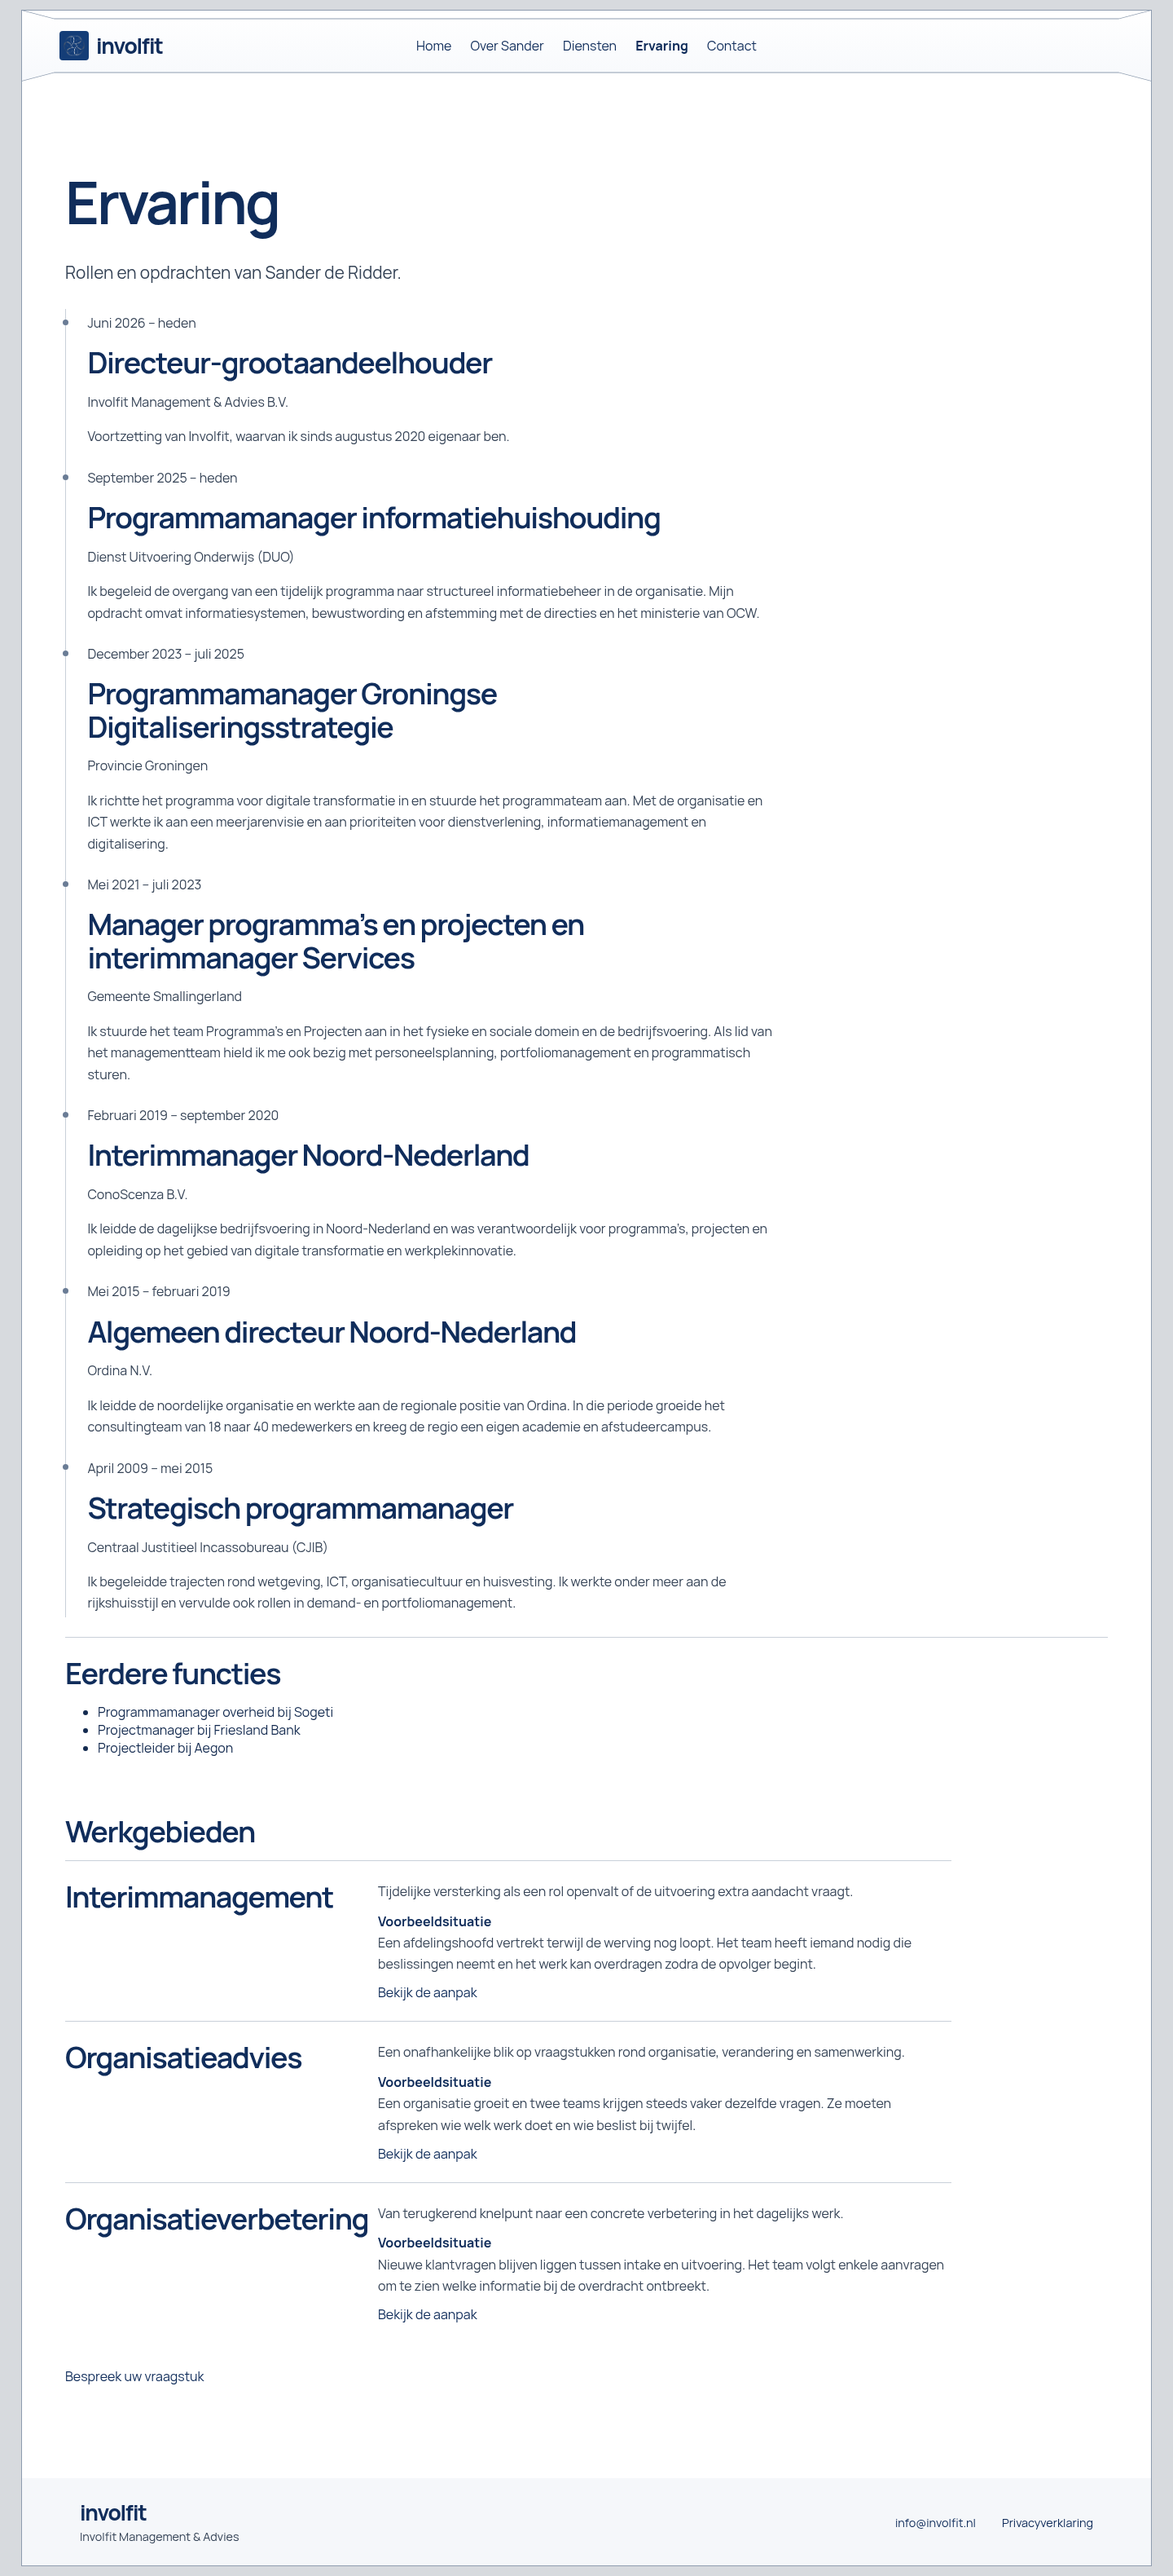
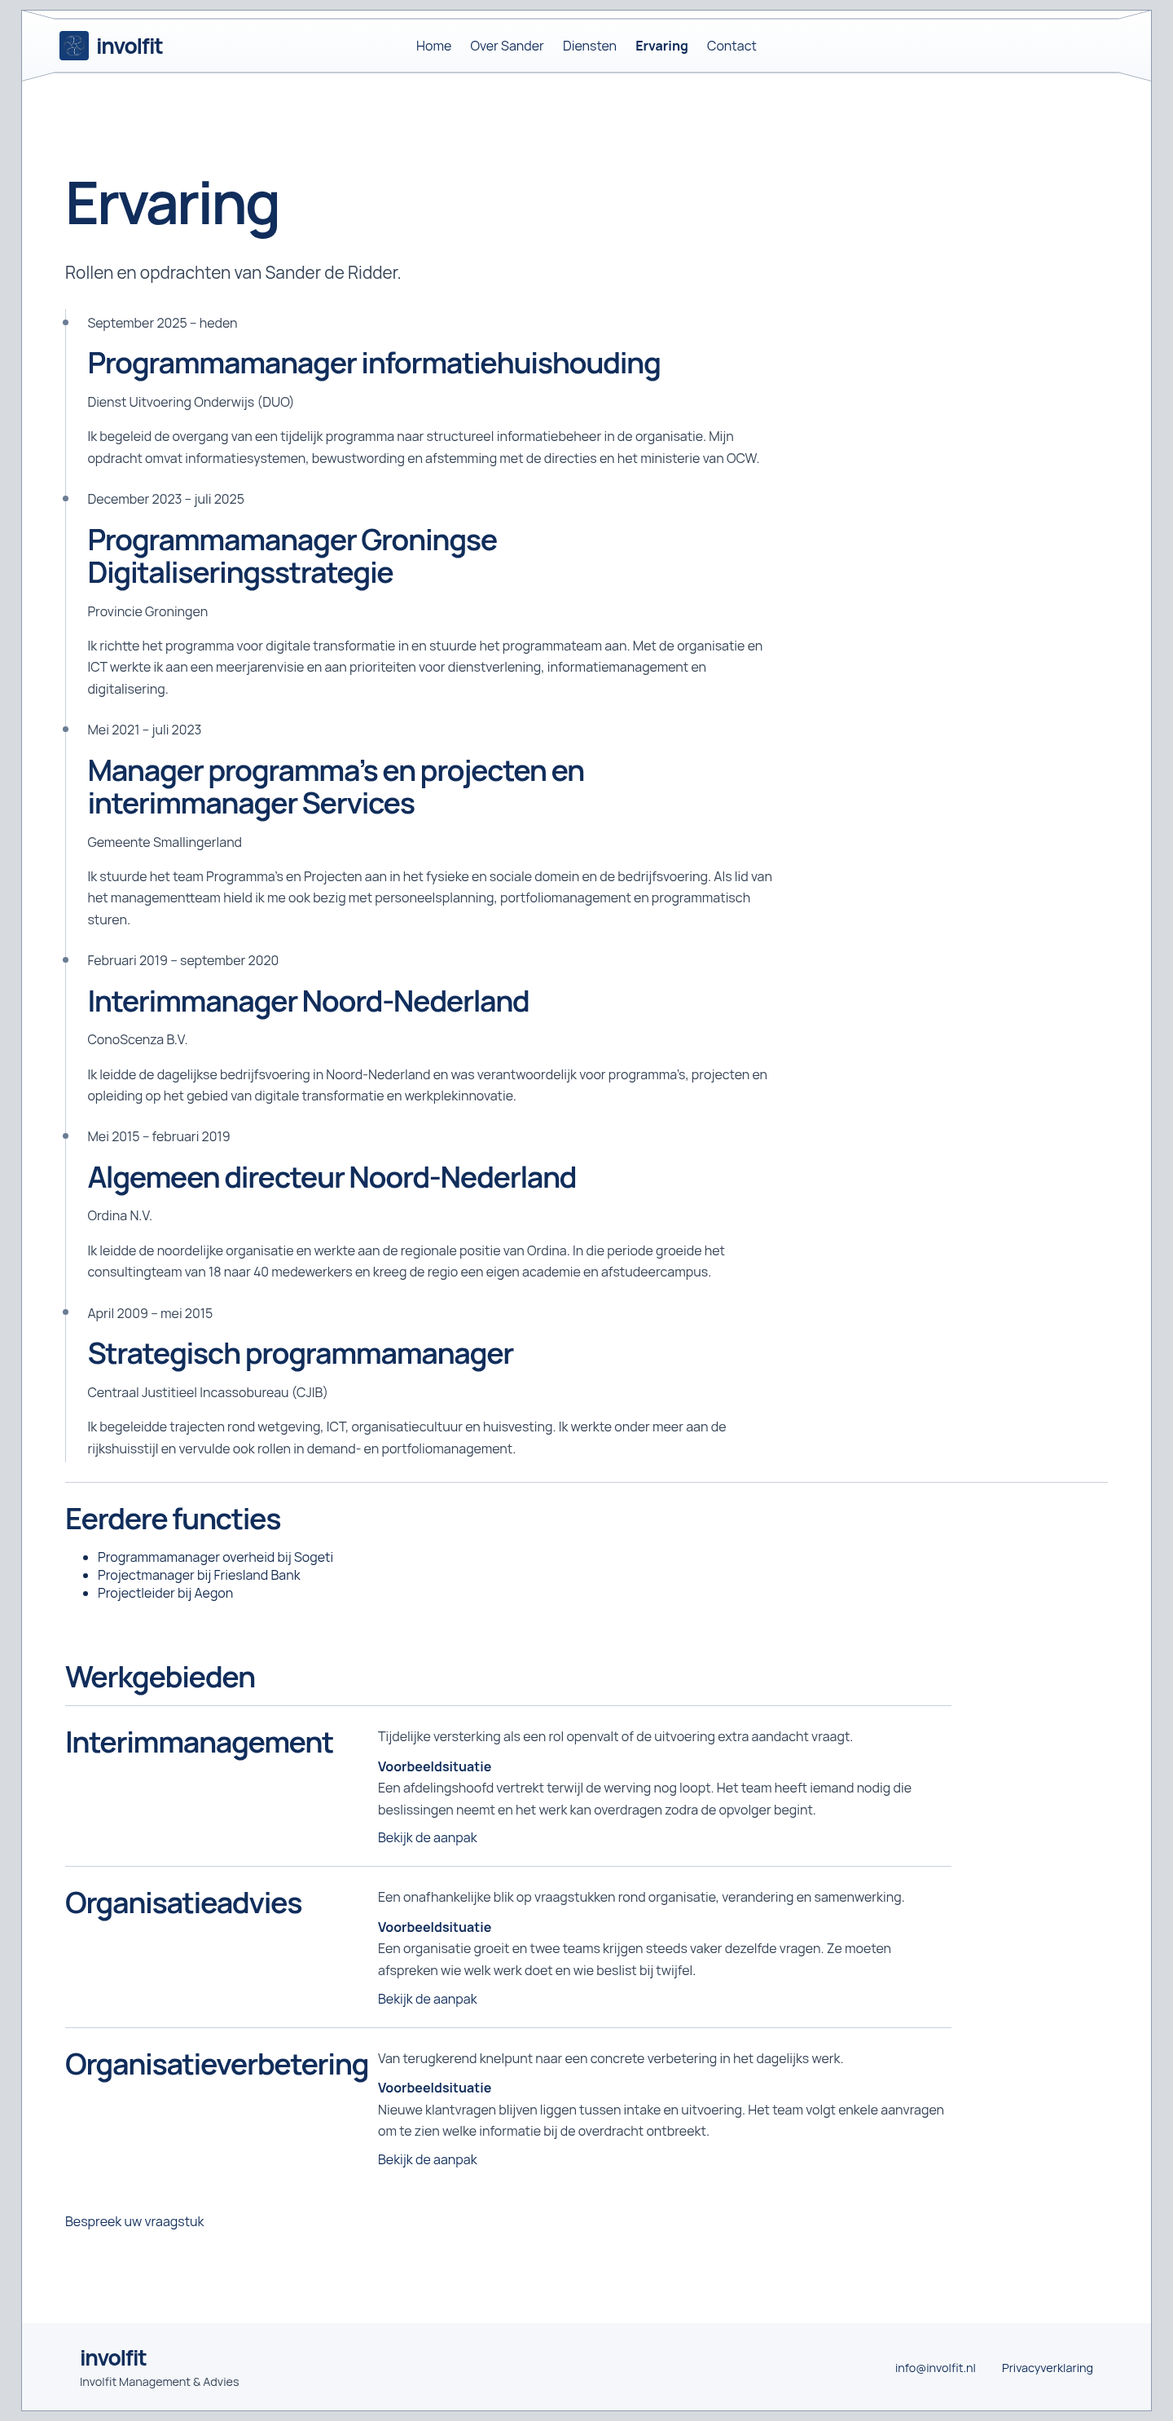
Remove the Involfit entry from the Experience timeline

diff --git a/projects/involfit/src/content.ts b/projects/involfit/src/content.ts
@@ -46,12 +46,6 @@ interface Experience {
 // Voeg alleen geverifieerde, openbaar te gebruiken opdrachten toe.
 export const experience: readonly Experience[] = [
   {
-    period: 'Juni 2026 – heden',
-    role: 'Directeur-grootaandeelhouder',
-    organization: 'Involfit Management & Advies B.V.',
-    description: 'Voortzetting van Involfit, waarvan ik sinds augustus 2020 eigenaar ben.',
-  },
-  {
     period: 'September 2025 – heden',
     role: 'Programmamanager informatiehuishouding',
     organization: 'Dienst Uitvoering Onderwijs (DUO)',
